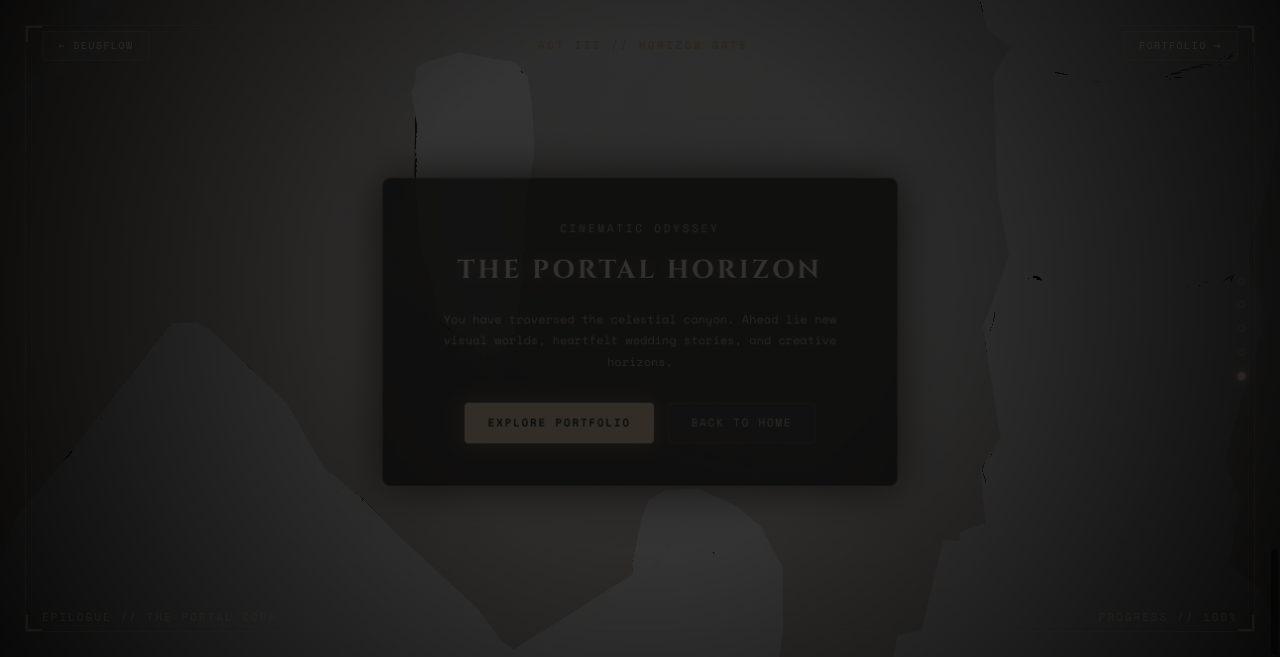
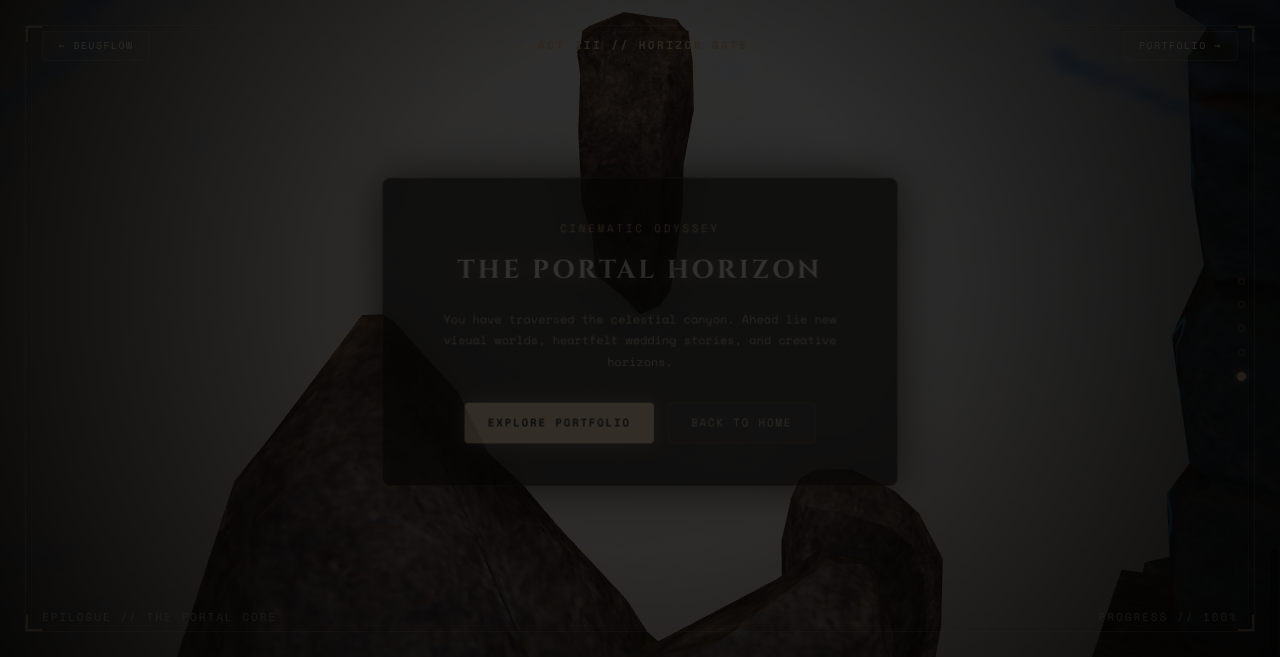
feat: implement dynamic intensity scaling for GLTF punctual lights and add verification utility

Changed region(s): [[0.1562, 0.4871, 0.75, 1.0], [0.4375, 0.0, 0.5625, 0.274]]

diff --git a/assets/js/story.js b/assets/js/story.js
@@ -125,6 +125,38 @@ let animationFrameId = null;
 let hasRedirected = false;
 const FINAL_REDIRECT_URL = 'PLACEHOLDER_NEXT_PAGE_URL'; // Подставь свой целевой URL (напр. '/portfolio/' или '/#contact')
 
+// --- GLTF Punctual Lights Configuration (KHR_lights_punctual) ---
+// Easily fine-tune individual light brightness here without re-exporting the model.
+// Clamps massive Blender export values (10,000 - 200,000) down to sane WebGL values (1.0 - 5.0).
+export const STORY_LIGHT_CONFIG = {
+  'base light to portal': 3.5,
+  'contlight2': 2.8,
+  'front light to portal': 3.0,
+  'Point': 1.8,
+  'portal l centr': 4.2
+};
+
+const gltfLights = new Map();
+
+/**
+ * Resolves configured intensity for a light by name (supporting spaces, underscores, and case insensitivity).
+ */
+function getLightConfigIntensity(name) {
+  if (!name) return null;
+  if (STORY_LIGHT_CONFIG[name] !== undefined) return STORY_LIGHT_CONFIG[name];
+  const spaced = name.replace(/_/g, ' ').trim();
+  if (STORY_LIGHT_CONFIG[spaced] !== undefined) return STORY_LIGHT_CONFIG[spaced];
+  const underscored = name.replace(/\s+/g, '_').trim();
+  if (STORY_LIGHT_CONFIG[underscored] !== undefined) return STORY_LIGHT_CONFIG[underscored];
+  const lower = spaced.toLowerCase();
+  for (const [key, val] of Object.entries(STORY_LIGHT_CONFIG)) {
+    if (key.toLowerCase().replace(/_/g, ' ').trim() === lower) {
+      return val;
+    }
+  }
+  return null;
+}
+
 // --- Split Animation Mixers ---
 let cameraMixer = null;
 let portalMixer = null;
@@ -316,7 +348,23 @@ async function initStoryEngine() {
       // ======================================================================
       billboardMeshes.length = 0;
 
+      gltfLights.clear();
+
       root.traverse((child) => {
+        // PUNCTUAL LIGHTS SCALING: detect GLTF punctual lights and scale down massive raw values
+        if (child.isLight) {
+          const configIntensity = getLightConfigIntensity(child.name) ?? (child.parent ? getLightConfigIntensity(child.parent.name) : null);
+          const rawIntensity = child.intensity;
+          if (configIntensity !== null) {
+            child.intensity = configIntensity;
+          } else if (child.intensity > 10) {
+            // Safe clamp / remap fallback for any unconfigured punctual light (clamps to 1.0 - 5.0)
+            child.intensity = THREE.MathUtils.clamp(child.intensity / 2500, 1.0, 5.0);
+          }
+          gltfLights.set(child.name, child);
+          console.log(`[StoryEngine] Scaled punctual light "${child.name}" (${child.type}): raw ${rawIntensity.toFixed(1)} -> scaled ${child.intensity.toFixed(2)}`);
+        }
+
         if (child.isMesh) {
           // UNLIT FIX for Cloud_Poly and Sky: emissive=[1,1,1] in GLTF causes blowout under scene lights.
           // Convert to THREE.MeshBasicMaterial (copying map and color) to make them completely unlit.
@@ -405,6 +453,27 @@ async function initStoryEngine() {
             }
           });
           return found;
+        },
+        getLightsInfo: () => {
+          const list = [];
+          gltfLights.forEach((light, name) => {
+            list.push({
+              name,
+              type: light.type,
+              intensity: light.intensity,
+              color: light.color.getHexString()
+            });
+          });
+          return list;
+        },
+        setLightIntensity: (name, intensity) => {
+          const light = gltfLights.get(name) || gltfLights.get(name.replace(/\s+/g, '_')) || gltfLights.get(name.replace(/_/g, ' '));
+          if (light) {
+            light.intensity = intensity;
+            console.log(`[StoryEngine] Light "${name}" intensity dynamically updated to ${intensity}`);
+            return true;
+          }
+          return false;
         }
       };
 

diff --git a/assets/js/cinematicStoryScene.js b/assets/js/cinematicStoryScene.js
@@ -38,6 +38,35 @@ let portalMixer = null;
 let cameraDuration = 0;
 let cameraClipEntries = [];
 
+// --- GLTF Punctual Lights Configuration (KHR_lights_punctual) ---
+// Easily fine-tune individual light brightness here without re-exporting the model.
+// Clamps massive Blender export values (10,000 - 200,000) down to sane WebGL values (1.0 - 5.0).
+export const STORY_LIGHT_CONFIG = {
+  'base light to portal': 3.5,
+  'contlight2': 2.8,
+  'front light to portal': 3.0,
+  'Point': 1.8,
+  'portal l centr': 4.2
+};
+
+const gltfLights = new Map();
+
+function getLightConfigIntensity(name) {
+  if (!name) return null;
+  if (STORY_LIGHT_CONFIG[name] !== undefined) return STORY_LIGHT_CONFIG[name];
+  const spaced = name.replace(/_/g, ' ').trim();
+  if (STORY_LIGHT_CONFIG[spaced] !== undefined) return STORY_LIGHT_CONFIG[spaced];
+  const underscored = name.replace(/\s+/g, '_').trim();
+  if (STORY_LIGHT_CONFIG[underscored] !== undefined) return STORY_LIGHT_CONFIG[underscored];
+  const lower = spaced.toLowerCase();
+  for (const [key, val] of Object.entries(STORY_LIGHT_CONFIG)) {
+    if (key.toLowerCase().replace(/_/g, ' ').trim() === lower) {
+      return val;
+    }
+  }
+  return null;
+}
+
 // Meshes & Billboards
 const billboardMeshes = [];
 let starsMesh = null;
@@ -214,11 +243,24 @@ export async function initCinematicScene({
         }
 
         // --------------------------------------------------------------------
-        // 5. TRANSPARENT PLANE SORTING & BILLBOARD FIX (Requirement 3)
-        // --------------------------------------------------------------------
         billboardMeshes.length = 0;
+        gltfLights.clear();
 
         root.traverse((child) => {
+          // PUNCTUAL LIGHTS SCALING: detect GLTF punctual lights and scale down massive raw values
+          if (child.isLight) {
+            const configIntensity = getLightConfigIntensity(child.name) ?? (child.parent ? getLightConfigIntensity(child.parent.name) : null);
+            const rawIntensity = child.intensity;
+            if (configIntensity !== null) {
+              child.intensity = configIntensity;
+            } else if (child.intensity > 10) {
+              // Safe clamp / remap fallback for any unconfigured punctual light (clamps to 1.0 - 5.0)
+              child.intensity = THREE.MathUtils.clamp(child.intensity / 2500, 1.0, 5.0);
+            }
+            gltfLights.set(child.name, child);
+            console.log(`[CinematicScene] Scaled punctual light "${child.name}" (${child.type}): raw ${rawIntensity.toFixed(1)} -> scaled ${child.intensity.toFixed(2)}`);
+          }
+
           if (child.isMesh) {
             // UNLIT FIX for Cloud_Poly and Sky: prevent blown out lighting
             if (child.name === 'Cloud_Poly' || child.name === 'Sky') {
